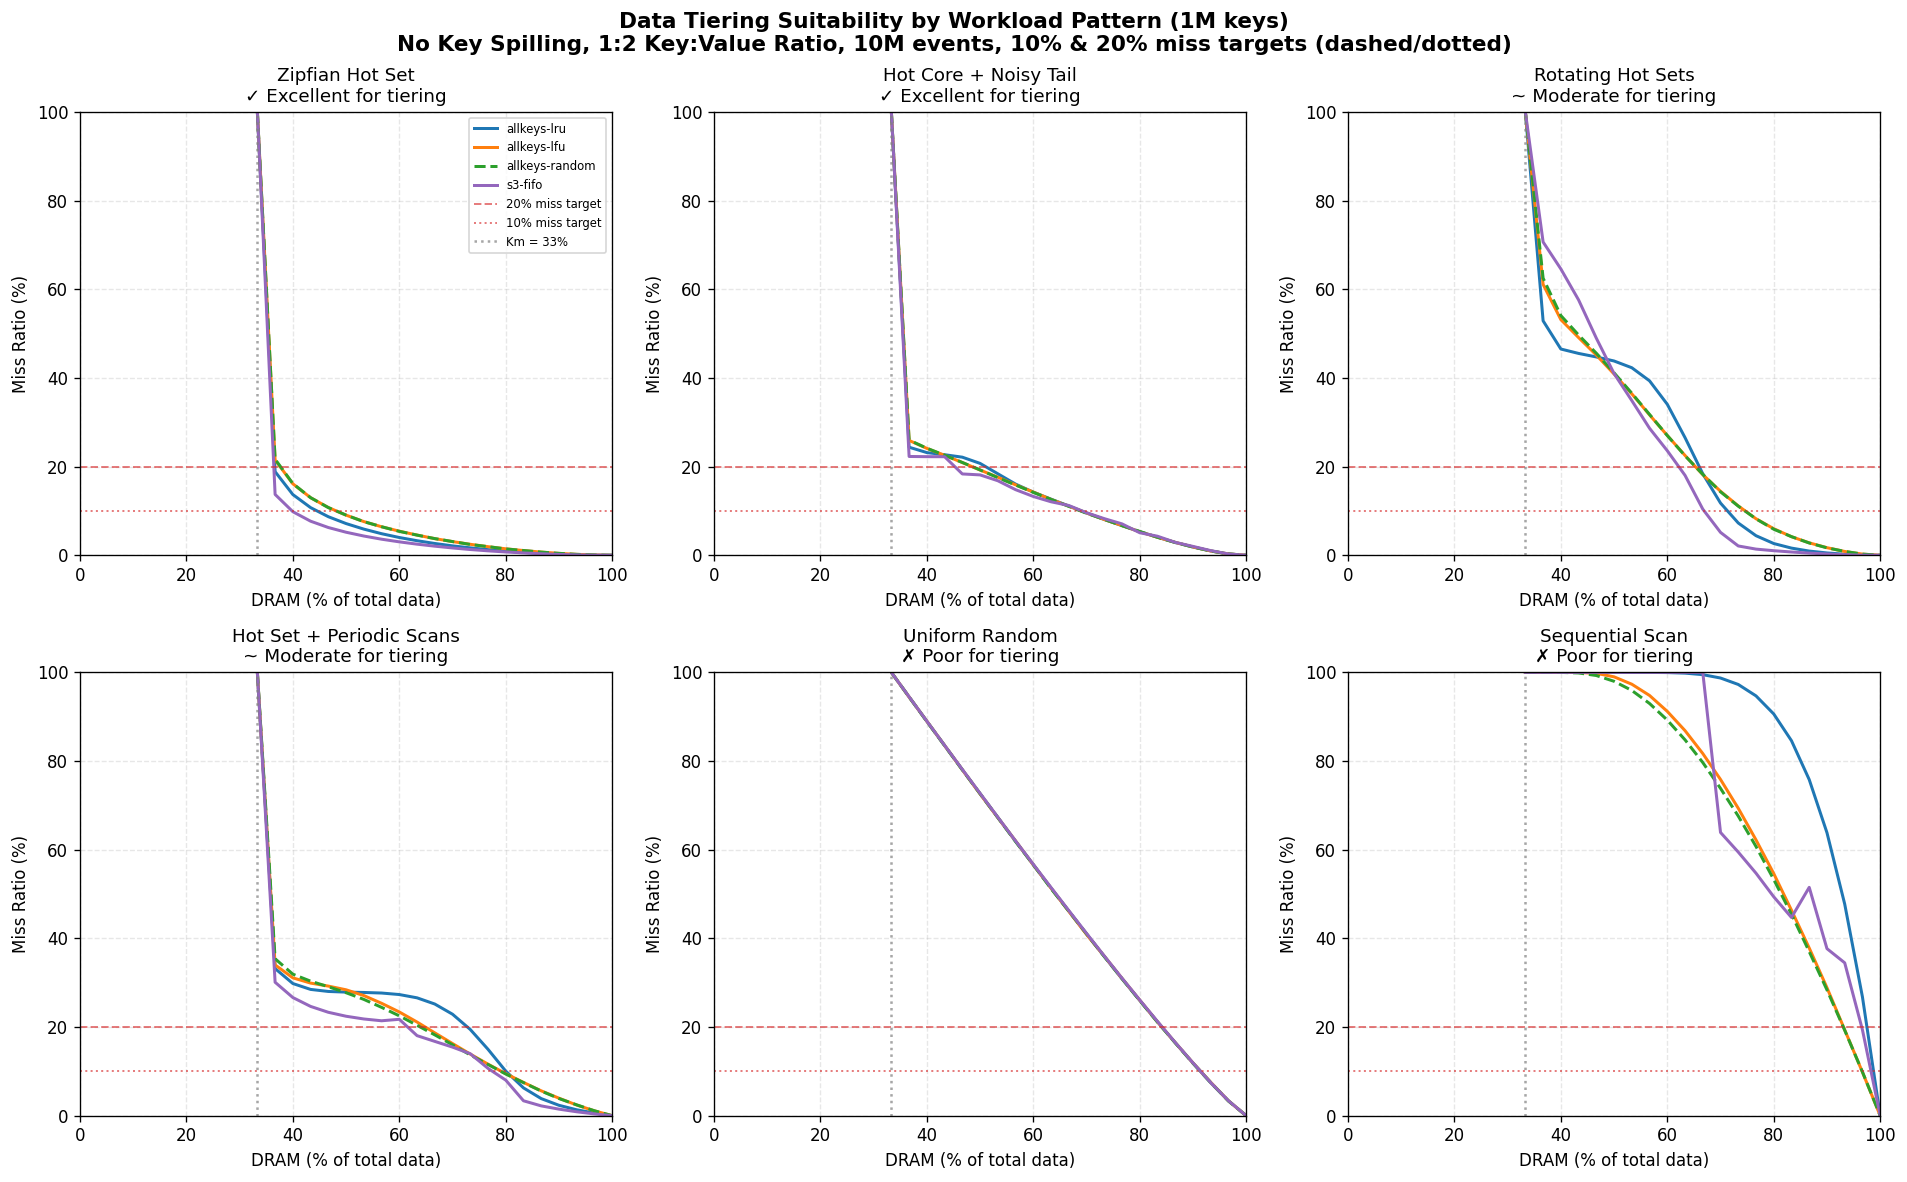
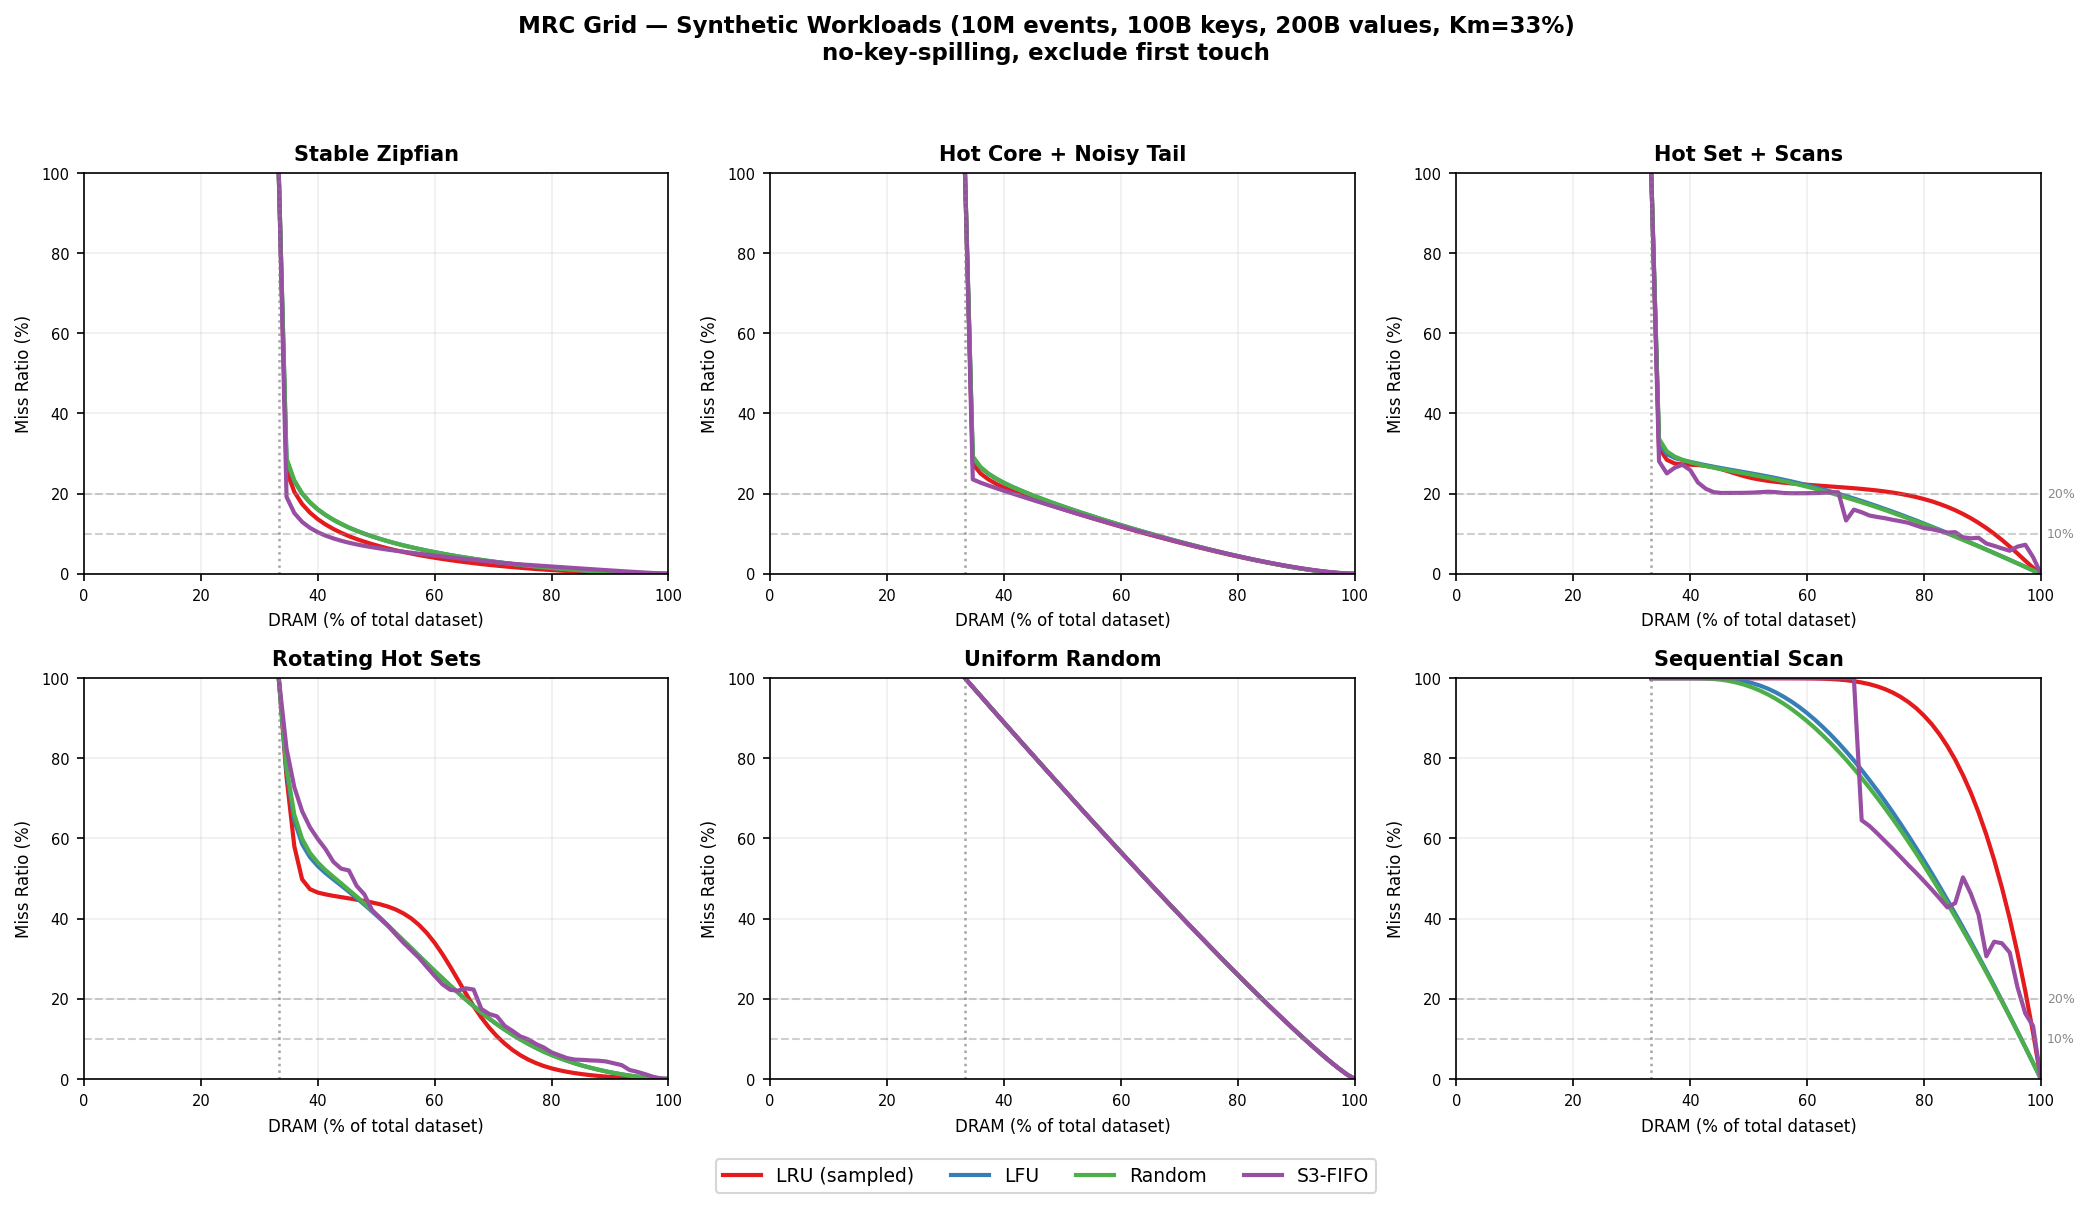
Update WORKLOAD_ANALYSIS.md: uniform sizes, corrected data, fixed S3-FIFO
- Regenerated synthetic traces with fixed 100B keys / 200B values
  (was heavy-tailed 128B-512KB causing 5% of keys to hold 87% of bytes)
- Updated all DRAM-at-target tables with new simulation data
- Updated workload-by-workload analysis text
- Replaced synthetic_mrc_grid.png with uniform-size version
- S3-FIFO now correctly shows scan resistance (ghost_target bug fixed)

diff --git a/WORKLOAD_ANALYSIS.md b/WORKLOAD_ANALYSIS.md
@@ -10,18 +10,20 @@ This report evaluates six representative workload patterns and one production tr
 
 | Parameter | Value | Notes |
 |-----------|-------|-------|
-| **Key:Value size ratio** | 1:2 | Conservative — larger values (1:4, 1:10) benefit *more* from tiering since a larger fraction of data is evictable. We deliberately chose a small ratio to show minimum expected savings. |
-| **Cost model** | 10:1 DRAM:SSD | $1/unit DRAM vs $0.10/unit SSD — representative of cloud instance pricing (e.g., r6g vs i3/d3 storage-optimized) |
-| **Eviction policies** | allkeys-lru, allkeys-lfu, allkeys-random, S3-FIFO | The `allkeys-*` policies are Valkey's built-in eviction policies (sampled with 5 candidates). **S3-FIFO** is included as an example of a possible future policy — it is not currently available in Valkey but demonstrates the potential of scan-resistant admission filters. |
+| **Key size** | 100 bytes (fixed) | Uniform across all keys — eliminates size-skew artifacts |
+| **Value size** | 200 bytes (fixed) | Uniform across all keys — isolates access pattern effects |
+| **Key:Value size ratio** | 1:2 | Km = 33%. Conservative — larger values (1:4, 1:10) benefit *more* from tiering. |
+| **Cost model** | 10:1 DRAM:SSD | $1/unit DRAM vs $0.10/unit SSD — representative of cloud instance pricing |
+| **Eviction policies** | allkeys-lru, allkeys-lfu, allkeys-random, S3-FIFO | The `allkeys-*` policies are Valkey's built-in eviction policies (sampled with 5 candidates). **S3-FIFO** is a scan-resistant policy using a small FIFO + main FIFO + ghost queue. |
 | **Trace length** | 10M events | Sufficient for steady-state convergence |
 | **Unique keys** | 1M (synthetic), 1.6M (Twitter) | |
 
 **Key findings:**
-- Workloads with strong access skew (Zipfian, hot core) can reduce DRAM to **36–51% of total data** at a 20% miss ratio target, or **40–69%** at a stricter 10% target
-- Workloads without skew (uniform, sequential) see **minimal benefit** — they need 84–97% DRAM regardless of policy
-- **S3-FIFO** and **allkeys-lru** are the best general-purpose policies
+- Workloads with strong access skew (Zipfian, hot core) can reduce DRAM to **35–43% of total data** at a 20% miss ratio target, or **41–65%** at a stricter 10% target
+- Workloads without skew (uniform, sequential) see **minimal benefit** — they need 85–99% DRAM regardless of policy
+- **S3-FIFO** is the best general-purpose policy — it reaches miss targets with less DRAM than LRU on Zipfian and scan-heavy workloads
+- **allkeys-lru** is a close second and simpler to implement
 - A production Twitter cache trace achieves **<10% miss at just 28% DRAM** — confirming that real-world caching workloads are excellent tiering candidates
-- With a larger key:value ratio (e.g., 1:4), savings would be even greater since Km drops from 33% to 20%, making more data evictable
 
 > **Note on miss ratio targets**: The 10% and 20% miss ratio targets used throughout this document are estimates. The actual acceptable miss ratio for a deployment is a function of (1) the throughput of the workload (ops/sec), (2) the latency characteristics of the storage/tiering layer (SSD read latency, queue depth), and (3) the application's tail latency budget. A workload doing 10K ops/s with a 1ms SSD read may tolerate 20% misses, while a workload doing 500K ops/s with the same SSD would need ≤5% misses to avoid saturating the storage layer.
 
@@ -106,20 +108,20 @@ A **Miss Ratio Curve (MRC)** shows how miss ratio decreases as DRAM increases. T
 
 | Workload | Target | allkeys-lru | allkeys-lfu | allkeys-random | s3-fifo | Verdict |
 |----------|--------|-------------|-------------|----------------|---------|---------|
-| **Zipfian Hot Set** | 20% | 36.6% | 37.6% | 37.7% | 36.4% | ✓ Excellent |
-| | 10% | 44.6% | 48.2% | 48.2% | 39.9% | |
-| **Hot Core + Tail** | 20% | 51.0% | 48.5% | 48.5% | 45.2% | ✓ Excellent |
-| | 10% | 69.0% | 69.0% | 68.9% | 69.2% | |
-| **Rotating Hot Sets** | 20% | 66.0% | 65.3% | 65.3% | 62.1% | ~ Moderate |
-| | 10% | 71.3% | 74.6% | 74.6% | 66.9% | |
-| **Hot Set + Scans** | 20% | 72.8% | 64.9% | 63.9% | 61.6% | ~ Moderate |
-| | 10% | 80.0% | 79.2% | 79.1% | 77.5% | |
-| **Uniform Random** | 20% | 84.2% | 84.2% | 84.1% | 84.2% | ✗ Poor |
-| | 10% | 91.4% | 91.4% | 91.4% | 91.4% | |
-| **Sequential Scan** | 20% | 97.5% | 93.1% | 93.1% | 96.5% | ✗ Poor |
-| | 10% | 98.8% | 96.6% | 96.6% | 98.3% | |
+| **Zipfian Hot Set** | 20% | 37% | 37% | 39% | 35% | ✓ Excellent |
+| | 10% | 45% | 48% | 48% | 41% | |
+| **Hot Core + Tail** | 20% | 43% | 45% | 45% | 43% | ✓ Excellent |
+| | 10% | 65% | 65% | 65% | 65% | |
+| **Rotating Hot Sets** | 20% | 67% | 65% | 65% | 68% | ~ Moderate |
+| | 10% | 72% | 75% | 75% | 76% | |
+| **Hot Set + Scans** | 20% | 76% | 65% | 65% | 67% | ~ Moderate |
+| | 10% | 92% | 85% | 85% | 87% | |
+| **Uniform Random** | 20% | 85% | 85% | 85% | 85% | ✗ Poor |
+| | 10% | 92% | 92% | 92% | 92% | |
+| **Sequential Scan** | 20% | 99% | 93% | 93% | 97% | ✗ Poor |
+| | 10% | 100% | 97% | 97% | 100% | |
 
-*All values are % of total data that must remain in DRAM. Lower = more savings. Key:Value ratio = 1:2 (Km = 33%).*
+*All values are % of total data that must remain in DRAM. Lower = more savings. Fixed 100B keys, 200B values (Km = 33%).*
 
 ---
 
@@ -131,23 +133,23 @@ A **Miss Ratio Curve (MRC)** shows how miss ratio decreases as DRAM increases. T
 
 **Why tiering works**: The top ~5% of keys handle 65%+ of traffic. A small DRAM cache captures most hits. The remaining 95% of keys can live on SSD with minimal miss impact.
 
-**Best policy**: S3-FIFO (36.4% at 20%, 39.9% at 10%) — its admission filter prevents one-hit-wonders from polluting the main cache. allkeys-lru (36.6%/44.6%) is a close second.
+**Best policy**: S3-FIFO (35% at 20%, 41% at 10%) — its ghost queue identifies frequently-accessed keys and promotes them to the protected main queue. allkeys-lru (37%/45%) is a close second.
 
-**DRAM savings at 20% target**: 63% of data moves to SSD.
-**DRAM savings at 10% target**: 55–60% of data moves to SSD (policy-dependent).
+**DRAM savings at 20% target**: 63–65% of data moves to SSD.
+**DRAM savings at 10% target**: 55–59% of data moves to SSD.
 
 ---
 
 ### ✓ Excellent: Hot Core + Noisy Tail
 
-**Pattern**: A small core of ~10K keys gets 70% of traffic, with a long tail of 960K rarely-accessed keys (recommendation engines, user profile caches).
+**Pattern**: A small core of ~10K keys gets 70% of traffic, with a long tail of 900K rarely-accessed keys (recommendation engines, user profile caches).
 
 **Why tiering works**: The hot core is tiny and stable — it fits easily in a small DRAM allocation. The long tail is almost never accessed and can be entirely on SSD.
 
-**Best policy**: S3-FIFO (45.2% at 20%) — filters tail accesses effectively. At the stricter 10% target, all policies converge (~69%) because the tail's sequential scan pattern requires more DRAM to absorb.
+**Best policy**: S3-FIFO and allkeys-lru tied (43% at 20%). At the stricter 10% target, all policies converge (~65%) because the tail noise requires more DRAM to absorb.
 
-**DRAM savings at 20% target**: 49–55% of data moves to SSD.
-**DRAM savings at 10% target**: ~31% of data moves to SSD — still meaningful but the gap between targets is large, indicating sensitivity to the tail scan pattern.
+**DRAM savings at 20% target**: 55–57% of data moves to SSD.
+**DRAM savings at 10% target**: ~35% of data moves to SSD.
 
 ---
 
@@ -157,10 +159,10 @@ A **Miss Ratio Curve (MRC)** shows how miss ratio decreases as DRAM increases. T
 
 **Why tiering partially works**: At any given moment, only one hot set is active and fits in DRAM. But when the hot set rotates, the cache must flush old entries and warm up new ones — causing burst misses during transitions.
 
-**Best policy**: S3-FIFO (62.1% at 20%, 66.9% at 10%) handles rotation well. allkeys-lru (66.0%/71.3%) adapts quickly to new hot sets via recency.
+**Best policy**: allkeys-lfu and allkeys-random (65% at 20%) adapt to rotation. allkeys-lru (67%) is slightly worse. S3-FIFO (68%) struggles because its ghost queue remembers old hot sets that are no longer relevant.
 
-**DRAM savings at 20% target**: 34–38% of data moves to SSD.
-**DRAM savings at 10% target**: 25–33% of data moves to SSD — marginal benefit.
+**DRAM savings at 20% target**: 32–35% of data moves to SSD.
+**DRAM savings at 10% target**: 24–28% of data moves to SSD — marginal benefit.
 
 ---
 
@@ -170,10 +172,10 @@ A **Miss Ratio Curve (MRC)** shows how miss ratio decreases as DRAM increases. T
 
 **Why tiering partially works**: The base workload is excellent for tiering, but periodic scans pollute the cache by promoting cold keys, temporarily evicting hot ones.
 
-**Best policy**: S3-FIFO (61.6% at 20%, 77.5% at 10%) — its small queue filters scan keys before they enter the main cache. allkeys-random (63.9%/79.1%) also resists scan pollution because eviction is independent of access order.
+**Best policy**: allkeys-lfu and allkeys-random (65% at 20%, 85% at 10%) resist scan pollution because frequency/randomness is independent of access order. S3-FIFO (67%/87%) also resists scans via its small queue filter. allkeys-lru (76%/92%) is worst — scans push hot keys out of the recency window.
 
-**DRAM savings at 20% target**: 27–38% of data moves to SSD (highly policy-dependent).
-**DRAM savings at 10% target**: 20–23% of data moves to SSD — scan resistance is critical.
+**DRAM savings at 20% target**: 24–35% of data moves to SSD (highly policy-dependent).
+**DRAM savings at 10% target**: 8–15% of data moves to SSD — scan resistance is critical.
 
 ---
 
@@ -181,11 +183,11 @@ A **Miss Ratio Curve (MRC)** shows how miss ratio decreases as DRAM increases. T
 
 **Pattern**: All keys equally likely at every instant (hash-based load balancing, random sampling workloads).
 
-**Why tiering fails**: No hot/cold separation exists. Every key has the same probability of being accessed next. Moving any subset to SSD guarantees proportional misses — there's no "safe" cold set.
+**Why tiering fails**: No hot/cold separation exists. Every key has the same probability of being accessed next. Moving any subset to SSD guarantees proportional misses — there’s no "safe" cold set.
 
-**All policies**: ~84% DRAM at 20% target, ~91% at 10% target. No policy can outperform another because there's no pattern to exploit.
+**All policies**: ~85% DRAM at 20% target, ~92% at 10% target. No policy can outperform another because there’s no pattern to exploit.
 
-**DRAM savings**: Minimal — only 16% moves to SSD at 20% target, and the miss ratio is still at the target threshold.
+**DRAM savings**: Minimal — only 15% moves to SSD at 20% target.
 
 ---
 
@@ -195,7 +197,7 @@ A **Miss Ratio Curve (MRC)** shows how miss ratio decreases as DRAM increases. T
 
 **Why tiering fails**: Every key is accessed exactly once per cycle. The working set at any moment equals the entire dataset. No subset is "cold" — every key will be needed again soon.
 
-**All policies**: 93–98% DRAM at 20% target, 97–99% at 10% target. LRU needs ~98% because it evicts the oldest entry, which is exactly the next one needed (Bélády's anomaly).
+**Best policy**: allkeys-lfu/random (93% at 20%, 97% at 10%) slightly outperform LRU (99%/100%) because LRU evicts the oldest entry, which is exactly the next one needed (Bélády’s anomaly). S3-FIFO (97%/100%) also suffers from this.
 
 **DRAM savings**: Essentially none. Sequential scans should bypass the cache entirely.
 
